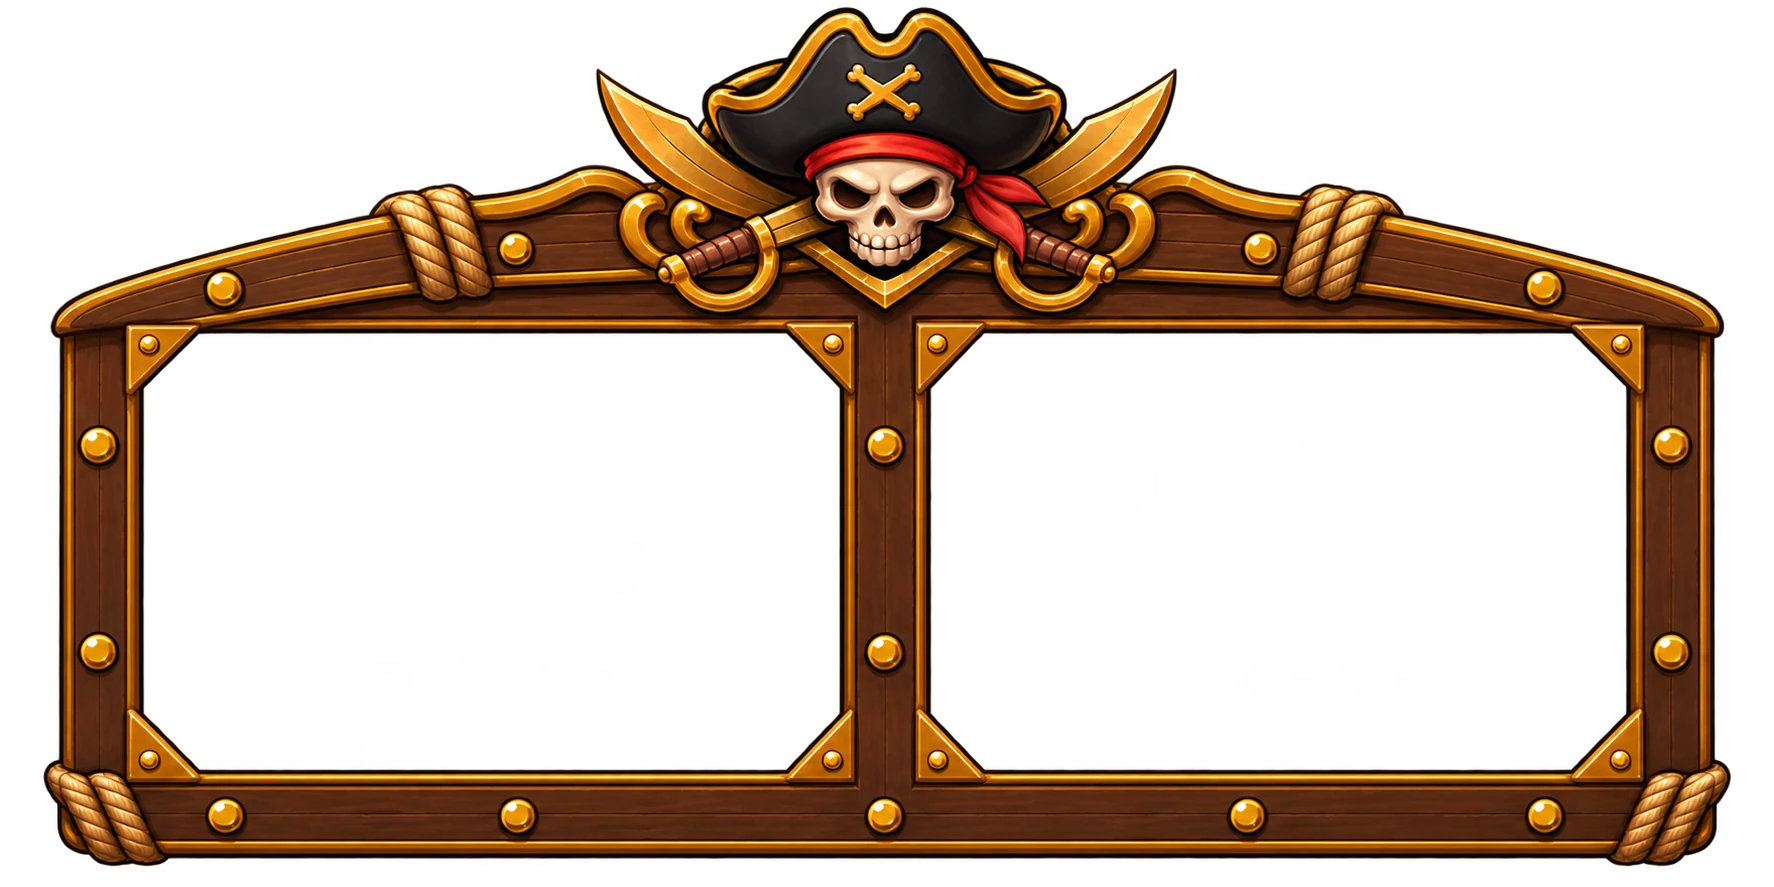
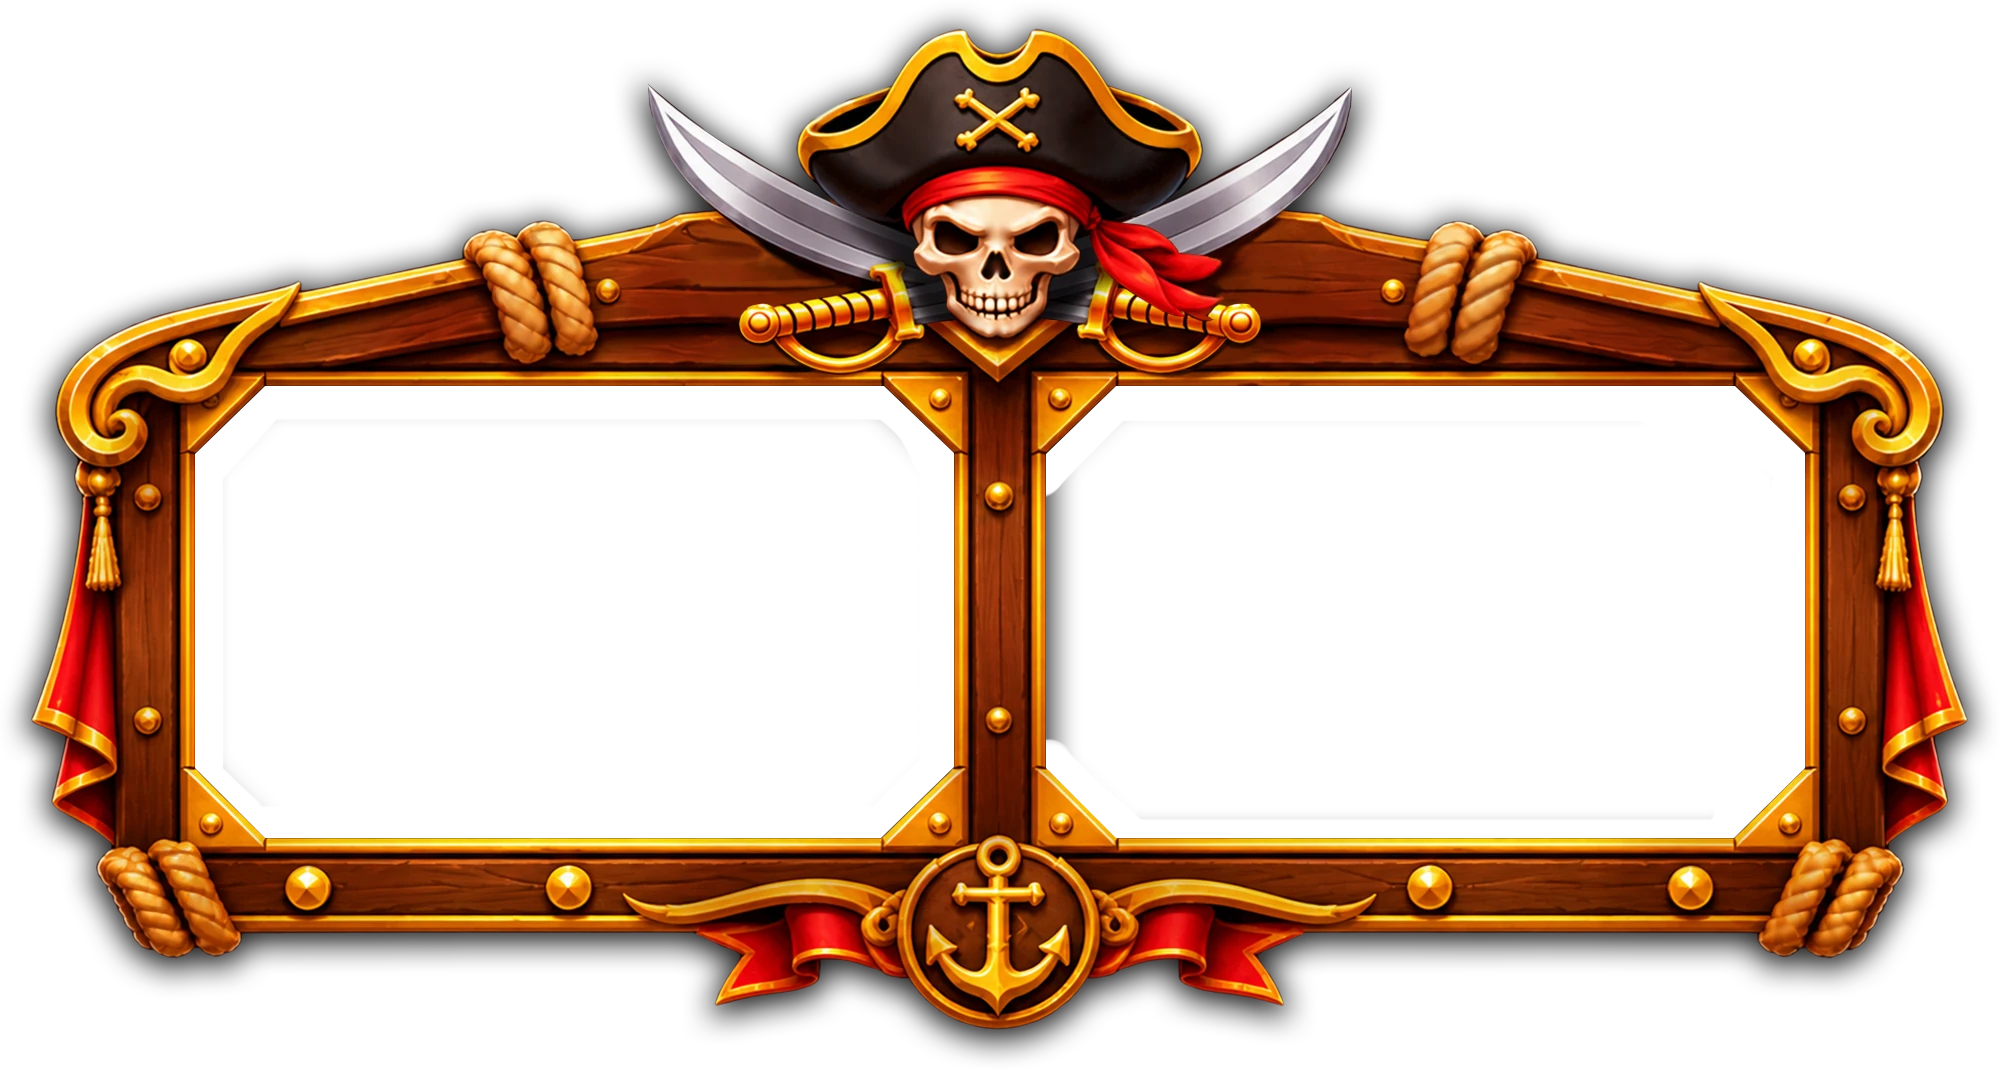
crazy-time: new top-slot cabinet and title frame art, reel backdrop behind the slot windows, ship art refresh

diff --git a/apps/crazy-time/src/components/TopSlot.svelte b/apps/crazy-time/src/components/TopSlot.svelte
@@ -23,16 +23,19 @@
 	import { staticCssUrl, staticUrl } from '../lib/staticUrl';
 
 	/**
-	 * The cabinet art (static/img/top-slots/frame.png, 1774x887). Its two windows were read off the
-	 * alpha channel — left x 145..838, right x 932..1624, both y 334..768 — and the percentages below
-	 * are those bounds over the image box, so the reels sit exactly in the openings. The opening's
-	 * height works out at 0.2452 of the frame's WIDTH, which is where `--cell` comes from.
+	 * The cabinet art (static/img/top-slots/frame.png, 2000x1070). Its two windows were read off the
+	 * alpha channel and the Figma frame — left x 195..954, right x 1047..1806 (the cabinet is
+	 * symmetric), both y 386..838 — and the percentages below are those bounds over the image box, so
+	 * the reels sit exactly in the openings. The opening's height works out at 0.226 of the frame's
+	 * WIDTH, which is where `--cell` comes from. The blue behind each reel is the artist's own
+	 * window backdrop (reel_backdrop.webp, 759x452 — exactly one opening).
 	 */
 	const FRAME_ART = staticUrl('img/top-slots/frame.webp');
+	const REEL_BACKDROP = staticCssUrl('img/top-slots/reel_backdrop.webp');
 	/**
 	 * The two ropes the cabinet hangs from, hooked onto the rope bindings drawn on its top rail
-	 * (left one centred at x 435 of 1774, the right its mirror at 1339; the rail's top edge at y 187
-	 * of 887). Each is the hook end (static/img/top-slots/rope.png from row 227 down, so its top is
+	 * (left one centred at x 528 of 2000, the right its mirror at 1472; the coils' top edge at y 221
+	 * of 1070). Each is the hook end (static/img/top-slots/rope.png from row 227 down, so its top is
 	 * where the twist repeats) under a strand cut from the same rope, one repeat (294 px, three turns)
 	 * tall and tiled on up past the top of the screen — so the rope still reaches the rigging when the
 	 * cabinet comes down into the middle of the wheel.
@@ -212,7 +215,7 @@
 </script>
 
 <div class="topslot" class:applied class:animating>
-	<div class="cabinet">
+	<div class="cabinet" style="--reel-backdrop:{REEL_BACKDROP}">
 		<!-- Behind the frame: the hook goes down behind the binding, so it reads as hooked on. -->
 		{#each ['left', 'right'] as side (side)}
 			<div class="rope {side}" style="--strand:{ROPE_STRAND}" aria-hidden="true">
@@ -260,7 +263,7 @@
 	   which is also the step the strip translates by. */
 	.topslot {
 		--frame-w: var(--ts-width, 22.8vw);
-		--cell: calc(var(--frame-w) * 0.2452);
+		--cell: calc(var(--frame-w) * 0.226);
 		display: flex;
 		flex-direction: column;
 		align-items: center;
@@ -268,30 +271,29 @@
 	.cabinet {
 		position: relative;
 		width: var(--frame-w);
-		aspect-ratio: 1774 / 887;
+		aspect-ratio: 2000 / 1070;
 	}
 	/*
 	 * A rope, in the cabinet's own units. The drawing is 887 px wide with the rope dead centre, and is
-	 * drawn at 0.45 of its size against the 1774 px frame: 22.5% of the cabinet's width, which makes
-	 * the ring about as wide as the binding it hooks. The hook's tip (row 1541 of the 1547-row end
-	 * piece) sits at 28.5% of the cabinet's height, 60 frame px down behind the binding, so the ring
-	 * hangs just above the rail. Everything above the end piece is strand, as tall as it needs to be.
+	 * drawn at 0.2 of the 2000 px frame's width, which makes the ring about as wide as the binding it
+	 * hooks. The hook's tip (row 1541 of the 1547-row end piece) sits at 27% of the cabinet's height,
+	 * behind the coil, so the ring hangs just above the rail. Everything above the end piece is strand, as tall as it needs to be.
 	 */
 	.rope {
-		--rope-w: calc(var(--frame-w) * 0.225);
+		--rope-w: calc(var(--frame-w) * 0.2);
 		position: absolute;
 		z-index: 1;
-		bottom: 71.5%;
+		bottom: 73%;
 		width: var(--rope-w);
 		display: flex;
 		flex-direction: column;
 		pointer-events: none;
 	}
 	.rope.left {
-		left: calc(24.5% - var(--rope-w) / 2);
+		left: calc(26.4% - var(--rope-w) / 2);
 	}
 	.rope.right {
-		left: calc(75.5% - var(--rope-w) / 2);
+		left: calc(73.6% - var(--rope-w) / 2);
 	}
 	/* The strand, tiled up from the end piece's top edge — the tile starts on the row the end piece
 	   does, so the twist runs on through the join. Tall enough to clear the top of the screen from
@@ -322,18 +324,18 @@
 	/* Placed on the art's own window bounds; height is the cell itself so the strip steps true. */
 	.reel {
 		position: absolute;
-		top: 37.66%;
+		top: 36.07%;
 		height: var(--cell);
 		overflow: hidden;
-		background: #0d0906;
+		background: #0d0906 var(--reel-backdrop) center / 100% 100% no-repeat;
 	}
 	.spot-reel {
-		left: 8.17%;
-		width: 39.12%;
+		left: 9.75%;
+		width: 37.95%;
 	}
 	.mult-reel {
-		left: 52.54%;
-		width: 39.06%;
+		left: 52.35%;
+		width: 37.95%;
 	}
 	.strip {
 		display: flex;

diff --git a/apps/crazy-time/src/components/BonusRound.svelte b/apps/crazy-time/src/components/BonusRound.svelte
@@ -577,12 +577,12 @@
 	   the FILE ends rather than where the sign does, and anything meant to sit under the sign, or
 	   to disappear behind it, would be measuring against nothing. The margin is a share of the
 	   WIDTH, which is what a percentage margin resolves against: 0.143 of the height over the
-	   art's 2.266 ratio. */
+	   art's 2.373 ratio (1220x514, the glow below its foot 0.134 of the height). */
 	.plate {
 		position: relative;
 		width: 28.6vw;
-		aspect-ratio: 775 / 342;
-		margin-bottom: -6.3%;
+		aspect-ratio: 1220 / 514;
+		margin-bottom: -5.6%;
 		background: var(--title-frame) no-repeat center / 100% 100%;
 		display: flex;
 		align-items: center;

diff --git a/apps/crazy-time/src/lib/preloadAssets.ts b/apps/crazy-time/src/lib/preloadAssets.ts
@@ -61,6 +61,7 @@ const DOM_IMAGE_PATHS: readonly string[] = [
 	// ── Top Slot cabinet (TopSlot.svelte) ─────────────────────────────────────────────────────────
 	'img/top-slots/frame.webp',
 	'img/top-slots/rope_end.webp',
+	'img/top-slots/reel_backdrop.webp',
 	'img/top-slots/rope_strand.webp',
 
 	// ── Chips (Game.svelte: the tray/board chips' base art and the balance rail's coin) ──────────

diff --git a/apps/crazy-time/src/components/rooms/RoomOceanVoyageV2.svelte b/apps/crazy-time/src/components/rooms/RoomOceanVoyageV2.svelte
@@ -354,7 +354,7 @@
 	/** What to tell the player at the helm. One line per drain — see `RoomHint`. */
 	const HINT = ['Steer the wheel', 'to pick barrels'];
 	/** The visible foot of BonusRound's title frame, as a share of its box (the rest is glow). */
-	const PLATE_FOOT = 0.857;
+	const PLATE_FOOT = 0.866;
 
 	const depths = $derived(room.depths.length);
 	const cols = TILES_PER_DEPTH;
